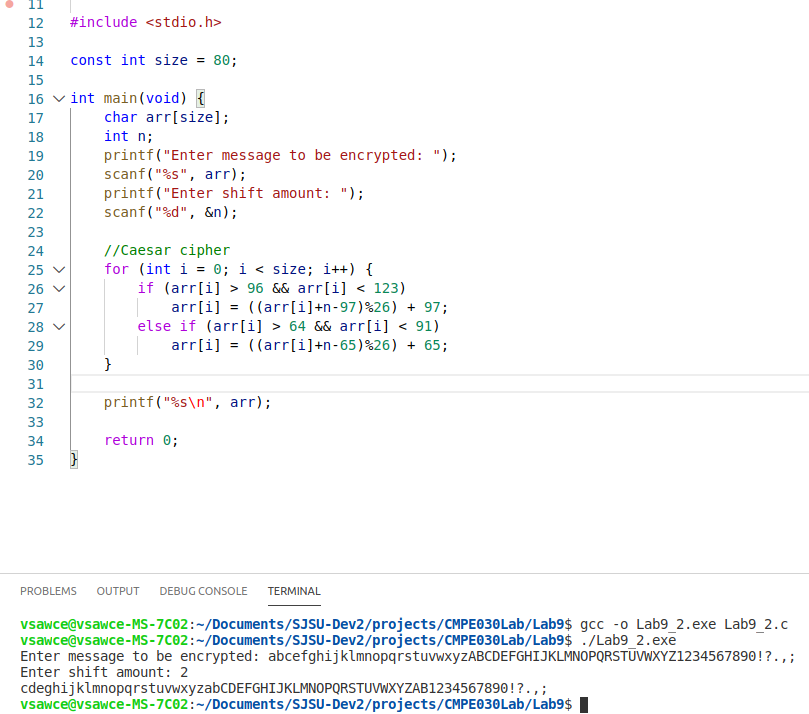
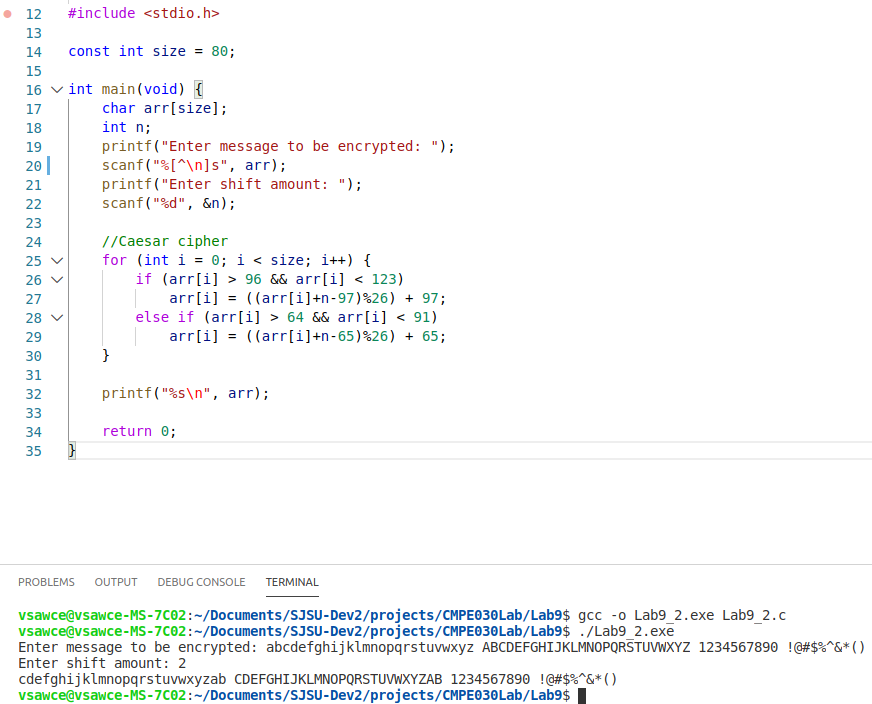
Fixed Lab9_2's scanf skipping spaces

Changed region(s): [[0.0, 0.0, 0.5562, 0.6562], [0.0, 0.8125, 0.9889, 1.0], [0.1236, 0.5312, 0.309, 0.625]]

diff --git a/Lab9/Lab9_2.c b/Lab9/Lab9_2.c
@@ -17,7 +17,7 @@ int main(void) {
     char arr[size];
     int n; 
     printf("Enter message to be encrypted: ");
-    scanf("%s", arr);
+    scanf("%[^\n]s", arr);
     printf("Enter shift amount: ");
     scanf("%d", &n);
 
